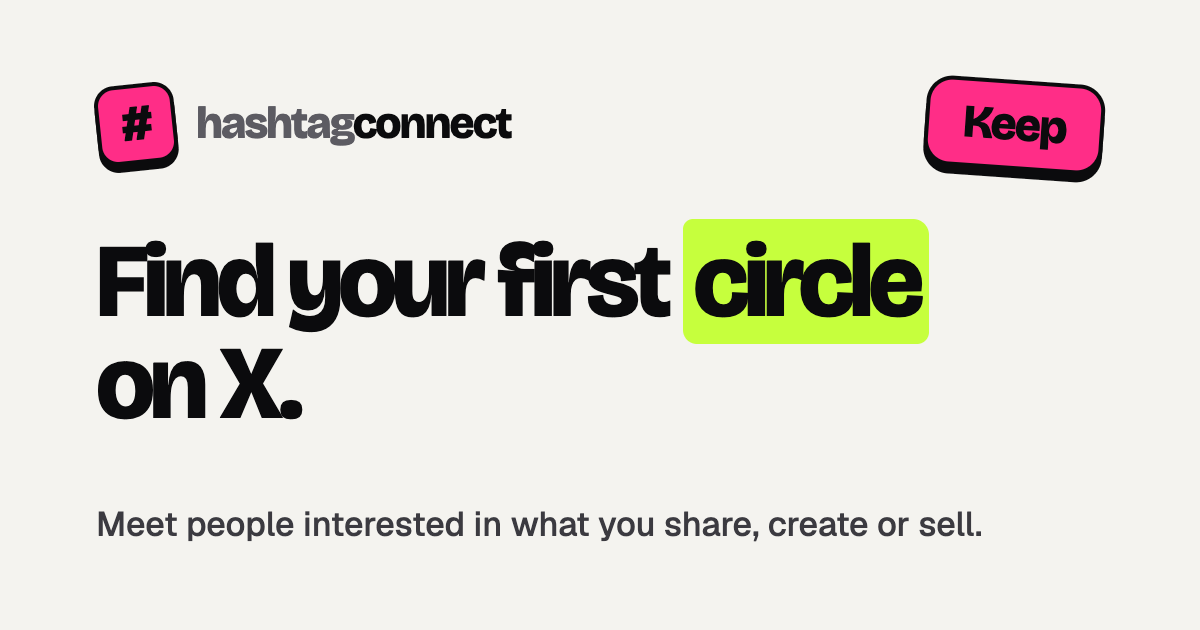
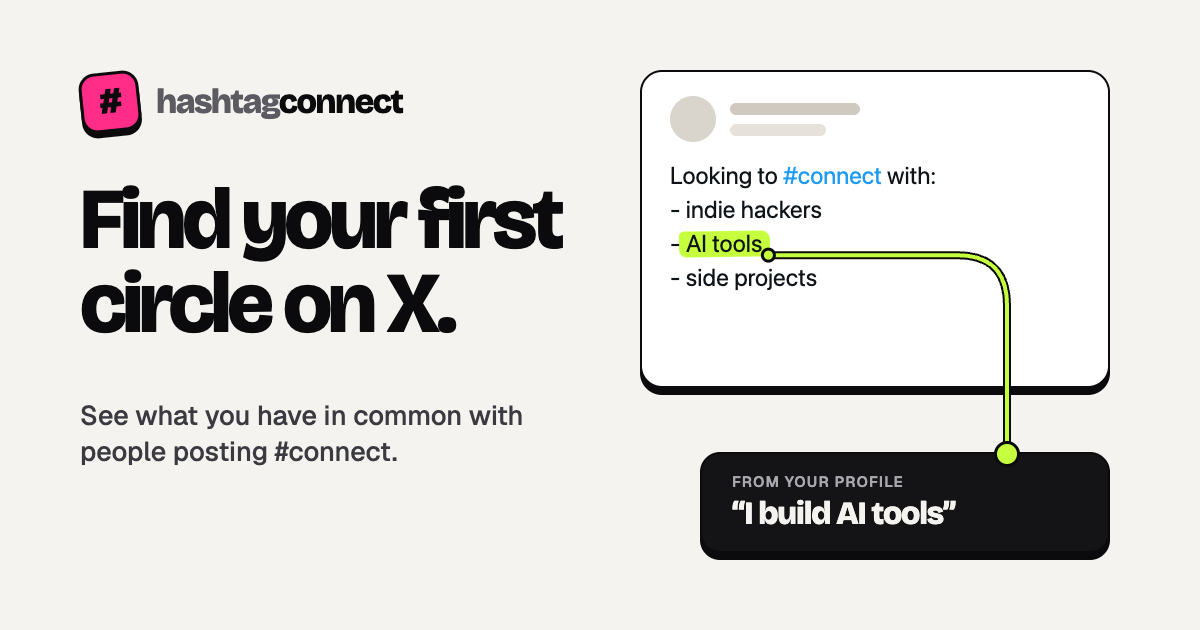
docs(brand): update social share image

Changed region(s): [[0.0617, 0.0905, 0.925, 0.9048], [0.555, 0.1508, 0.74, 0.2413]]

diff --git a/void.config.ts b/void.config.ts
@@ -39,7 +39,11 @@ export default defineConfig({
       { property: "og:image", content: "https://hashtagconnect.kinetics.workers.dev/og.png" },
       { property: "og:image:width", content: "1200" },
       { property: "og:image:height", content: "630" },
-      { property: "og:image:alt", content: "hashtagconnect: Find your first circle on X." },
+      {
+        property: "og:image:alt",
+        content:
+          "hashtagconnect: Find your first circle on X. A #connect post with “AI tools” highlighted, linked to “I build AI tools” from your profile.",
+      },
       { name: "twitter:card", content: "summary_large_image" },
     ],
     link: [
